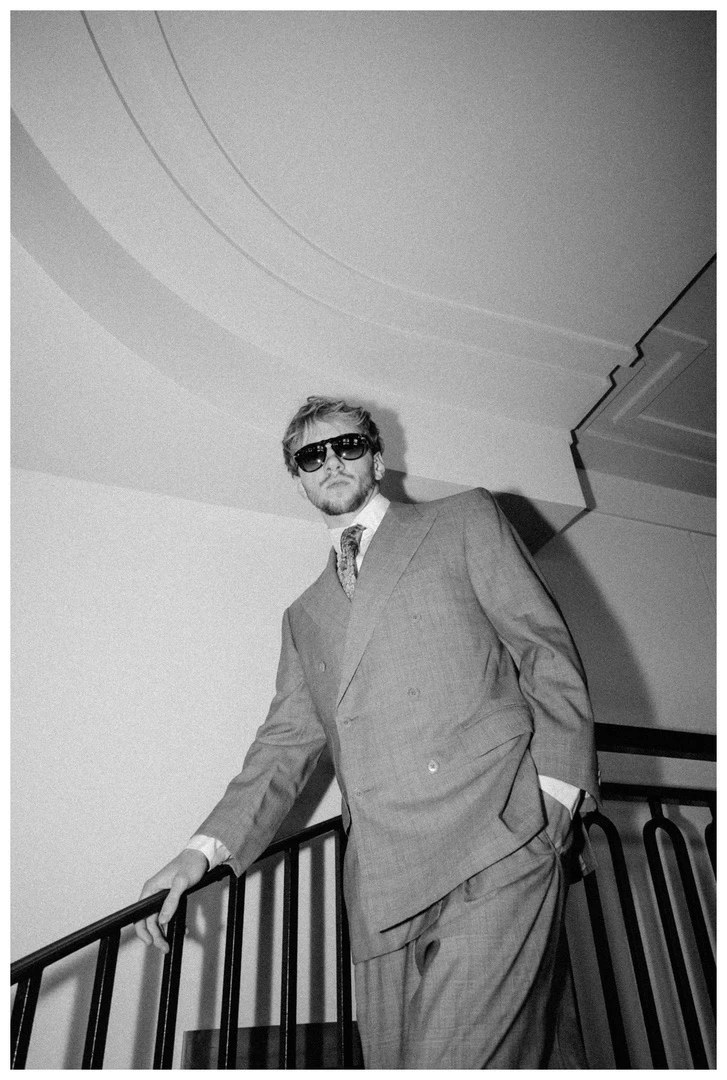
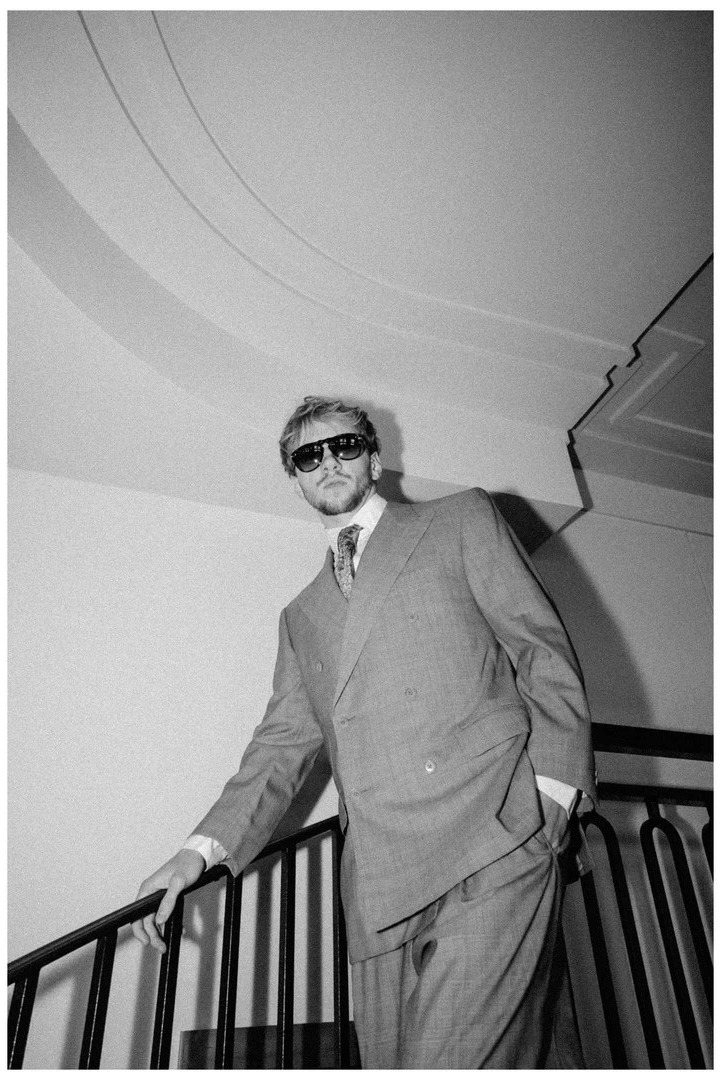
Pair the two portraits in the rail; drop the coffee section
The beans, the offset portrait and the whole foot block come out, and the
La Cabra frame moves up beside the other one at the head of the fact rail.
Forty-seven lines of now-dead CSS go with it, and the selector list was
diffed against the previous file to confirm nothing else went with them.

The two frames were 727x1080 and 721x1088. Side by side that 1.5% is close
enough to read as a mistake, so both are cropped to 721x1080 and the columns
divide evenly with no cropping in the browser.

The caption sits in the second column rather than spanning the pair: the left
frame has nothing to do with the coffee shop.

Claude-Session: https://claude.ai/code/session_01JEuyM9BFofSz7ud4NwGMZi

diff --git a/assets/css/style.css b/assets/css/style.css
@@ -798,7 +798,14 @@ p,.prose p,dd,li{text-wrap:pretty;}
    right edge. Left to grow the portrait outran the text beside it, which only
    gets shorter as its column widens. */
 .about-side{display:flex;flex-direction:column;gap:clamp(20px,3.5vh,36px);
-  max-width:380px;}
+  max-width:440px;}
+/* Both frames are 721x1080, so the columns divide evenly and the two
+   pictures line up top and bottom without any cropping. */
+.about-pair{display:grid;grid-template-columns:1fr 1fr;gap:clamp(8px,1.1vw,14px);}
+.about-pair img{width:100%;}
+/* Second column only. Spanning both read as captioning the pair, and the
+   left frame has nothing to do with the coffee shop. */
+.about-pair figcaption{grid-column:2;margin-top:.55rem;}
 .about-side img{width:100%;}
 
 /* One fact per row at full rail width, so a value like
@@ -816,53 +823,6 @@ p,.prose p,dd,li{text-wrap:pretty;}
   .about-side img{max-width:min(100%,360px);}
   .case-meta--stack{grid-template-columns:repeat(auto-fit,minmax(min(100%,15rem),1fr));}
 }
-
-/* The offset portrait is right-aligned and leaves a long empty run beside it.
-   A drawn pour lives there, sized small so it reads as a margin note rather
-   than an illustration competing with the photographs. */
-/* The portrait column is held at a definite 420px. As an `auto` track it took
-   its max-content width instead, blowing the picture up to its intrinsic size
-   and squeezing the pour into whatever was left. */
-/* The portrait track is capped by percentage as well as pixels. As a flat
-   minmax(0,420px) it claimed its full width first and left the animation
-   column 99px at around 900px wide. */
-.about-foot{display:grid;grid-template-columns:minmax(0,1fr) minmax(0,min(420px,45%));
-  gap:clamp(20px,5vw,72px);align-items:end;}
-.about-foot .about-offset{width:100%;margin:clamp(30px,6vh,70px) 0 0 auto;}
-.brew{margin:0 0 clamp(6px,2vh,24px);width:min(100%,480px);justify-self:start;
-  color:var(--muted);}
-/* Clipped, so a bean enters and leaves at the frame edge instead of drifting
-   over the paragraph above it. */
-.brew svg{width:100%;height:auto;display:block;overflow:hidden;}
-
-/* The still, for reduced motion and for JS off: beans caught mid-fall above
-   the pile rather than five invisible elements and a heap. */
-.bean--a{transform:translateY(34px) rotate(112deg);}
-.bean--b{transform:translateY(72px) rotate(-38deg);}
-.bean--c{transform:translateY(16px) rotate(46deg);}
-.bean--d{transform:translateY(94px) rotate(190deg);}
-.bean--e{transform:translateY(54px) rotate(-96deg);}
-
-/* Coprime durations, so the loop never visibly resynchronises. */
-.motion-ready .bean{opacity:0;animation:bean-drop 5.4s linear infinite;}
-.motion-ready .bean--b{animation-duration:6.6s;animation-delay:-2.2s;}
-.motion-ready .bean--c{animation-duration:4.8s;animation-delay:-3.7s;}
-.motion-ready .bean--d{animation-duration:7.1s;animation-delay:-1.1s;}
-.motion-ready .bean--e{animation-duration:6.0s;animation-delay:-4.6s;}
-
-@keyframes bean-drop{
-  0%     {transform:translateY(-22px) rotate(-14deg);opacity:0;}
-  6%     {opacity:1;}
-  94%    {opacity:1;}
-  100%   {transform:translateY(131px) rotate(286deg);opacity:0;}
-}
-@media (max-width:760px){
-  .about-foot{grid-template-columns:1fr;justify-items:end;}
-  .brew{justify-self:start;}
-}
-
-.about-offset{width:min(46%,420px);margin:clamp(30px,6vh,70px) 0 0 auto;}
-@media (max-width:760px){.about-offset{width:min(78%,340px);margin-inline:auto 0;}}
 
 /* ---- 26. DISPLAY TIER -------------------------------------
    Archivo carries a width axis, so the wide-heavy setting is a

diff --git a/about.html b/about.html
@@ -58,8 +58,13 @@
         <!-- The portrait rail carries the quick facts. On its own the picture
              ran out a third of the way down the text and left a dead column. -->
         <div class="about-side">
-          <img width="727" height="1080" src="assets/about/portrait-02.jpg"
-               alt="Nazar Sementsov" loading="lazy" data-mask>
+          <figure class="about-pair" data-reveal>
+            <img width="721" height="1080" src="assets/about/portrait-02.jpg"
+                 alt="Nazar Sementsov" loading="lazy" data-mask>
+            <img width="721" height="1080" src="assets/about/portrait-03.jpg"
+                 alt="Nazar Sementsov outside La Cabra" loading="lazy" data-mask>
+            <figcaption class="meta">Most mornings at La&nbsp;Cabra.</figcaption>
+          </figure>
           <dl class="case-meta case-meta--stack" data-reveal>
             <div><dt class="meta">From</dt><dd>Moscow, Russia</dd></div>
             <div><dt class="meta">Based</dt><dd>New York City</dd></div>
@@ -92,47 +97,6 @@
         </div>
       </div>
 
-      <!-- The offset portrait leaves a long empty run to its left. A drawn
-           pour sits in it, keyed to the shop in the photograph above. -->
-      <div class="about-foot">
-        <figure class="brew" data-reveal>
-          <svg viewBox="20 0 112 148" role="img" aria-label="Coffee beans dropping">
-            <defs>
-              <linearGradient id="beanFill" x1="0" y1="0" x2=".85" y2="1">
-                <stop offset="0" stop-color="#815026"/>
-                <stop offset=".55" stop-color="#5A3317"/>
-                <stop offset="1" stop-color="#36200F"/>
-              </linearGradient>
-              <g id="cbean">
-                <ellipse rx="6.6" ry="9.2" fill="url(#beanFill)"/>
-                <path d="M0 -7.8 C-2.1 -3.6 -2.1 3.6 0 7.8"
-                      fill="none" stroke="#2A1809" stroke-width="1.05" opacity=".5"/>
-              </g>
-            </defs>
-
-            <g transform="translate(46 0)"><g class="bean bean--a"><use href="#cbean"/></g></g>
-            <g transform="translate(70 0)"><g class="bean bean--b"><use href="#cbean"/></g></g>
-            <g transform="translate(96 0)"><g class="bean bean--c"><use href="#cbean"/></g></g>
-            <g transform="translate(112 0)"><g class="bean bean--d"><use href="#cbean"/></g></g>
-            <g transform="translate(58 0)"><g class="bean bean--e"><use href="#cbean"/></g></g>
-
-            <!-- Drawn after the falling beans, so one arriving passes behind the
-                 pile instead of fading out as a ghost above it. -->
-            <g class="bean-rest">
-              <g transform="translate(62 128) rotate(-74)"><use href="#cbean"/></g>
-              <g transform="translate(76 131) rotate(14)"><use href="#cbean"/></g>
-              <g transform="translate(89 127) rotate(-32)"><use href="#cbean"/></g>
-            </g>
-            <line x1="30" y1="139" x2="122" y2="139"
-                  stroke="currentColor" stroke-width=".7" stroke-linecap="round"/>
-          </svg>
-          <figcaption class="meta">Most mornings at La&nbsp;Cabra.</figcaption>
-        </figure>
-
-        <figure class="figure about-offset" data-reveal>
-          <img width="721" height="1088" src="assets/about/portrait-03.jpg"
-               alt="Nazar Sementsov" loading="lazy" data-mask>
-        </figure>
       </div>
     </div>
   </div>
